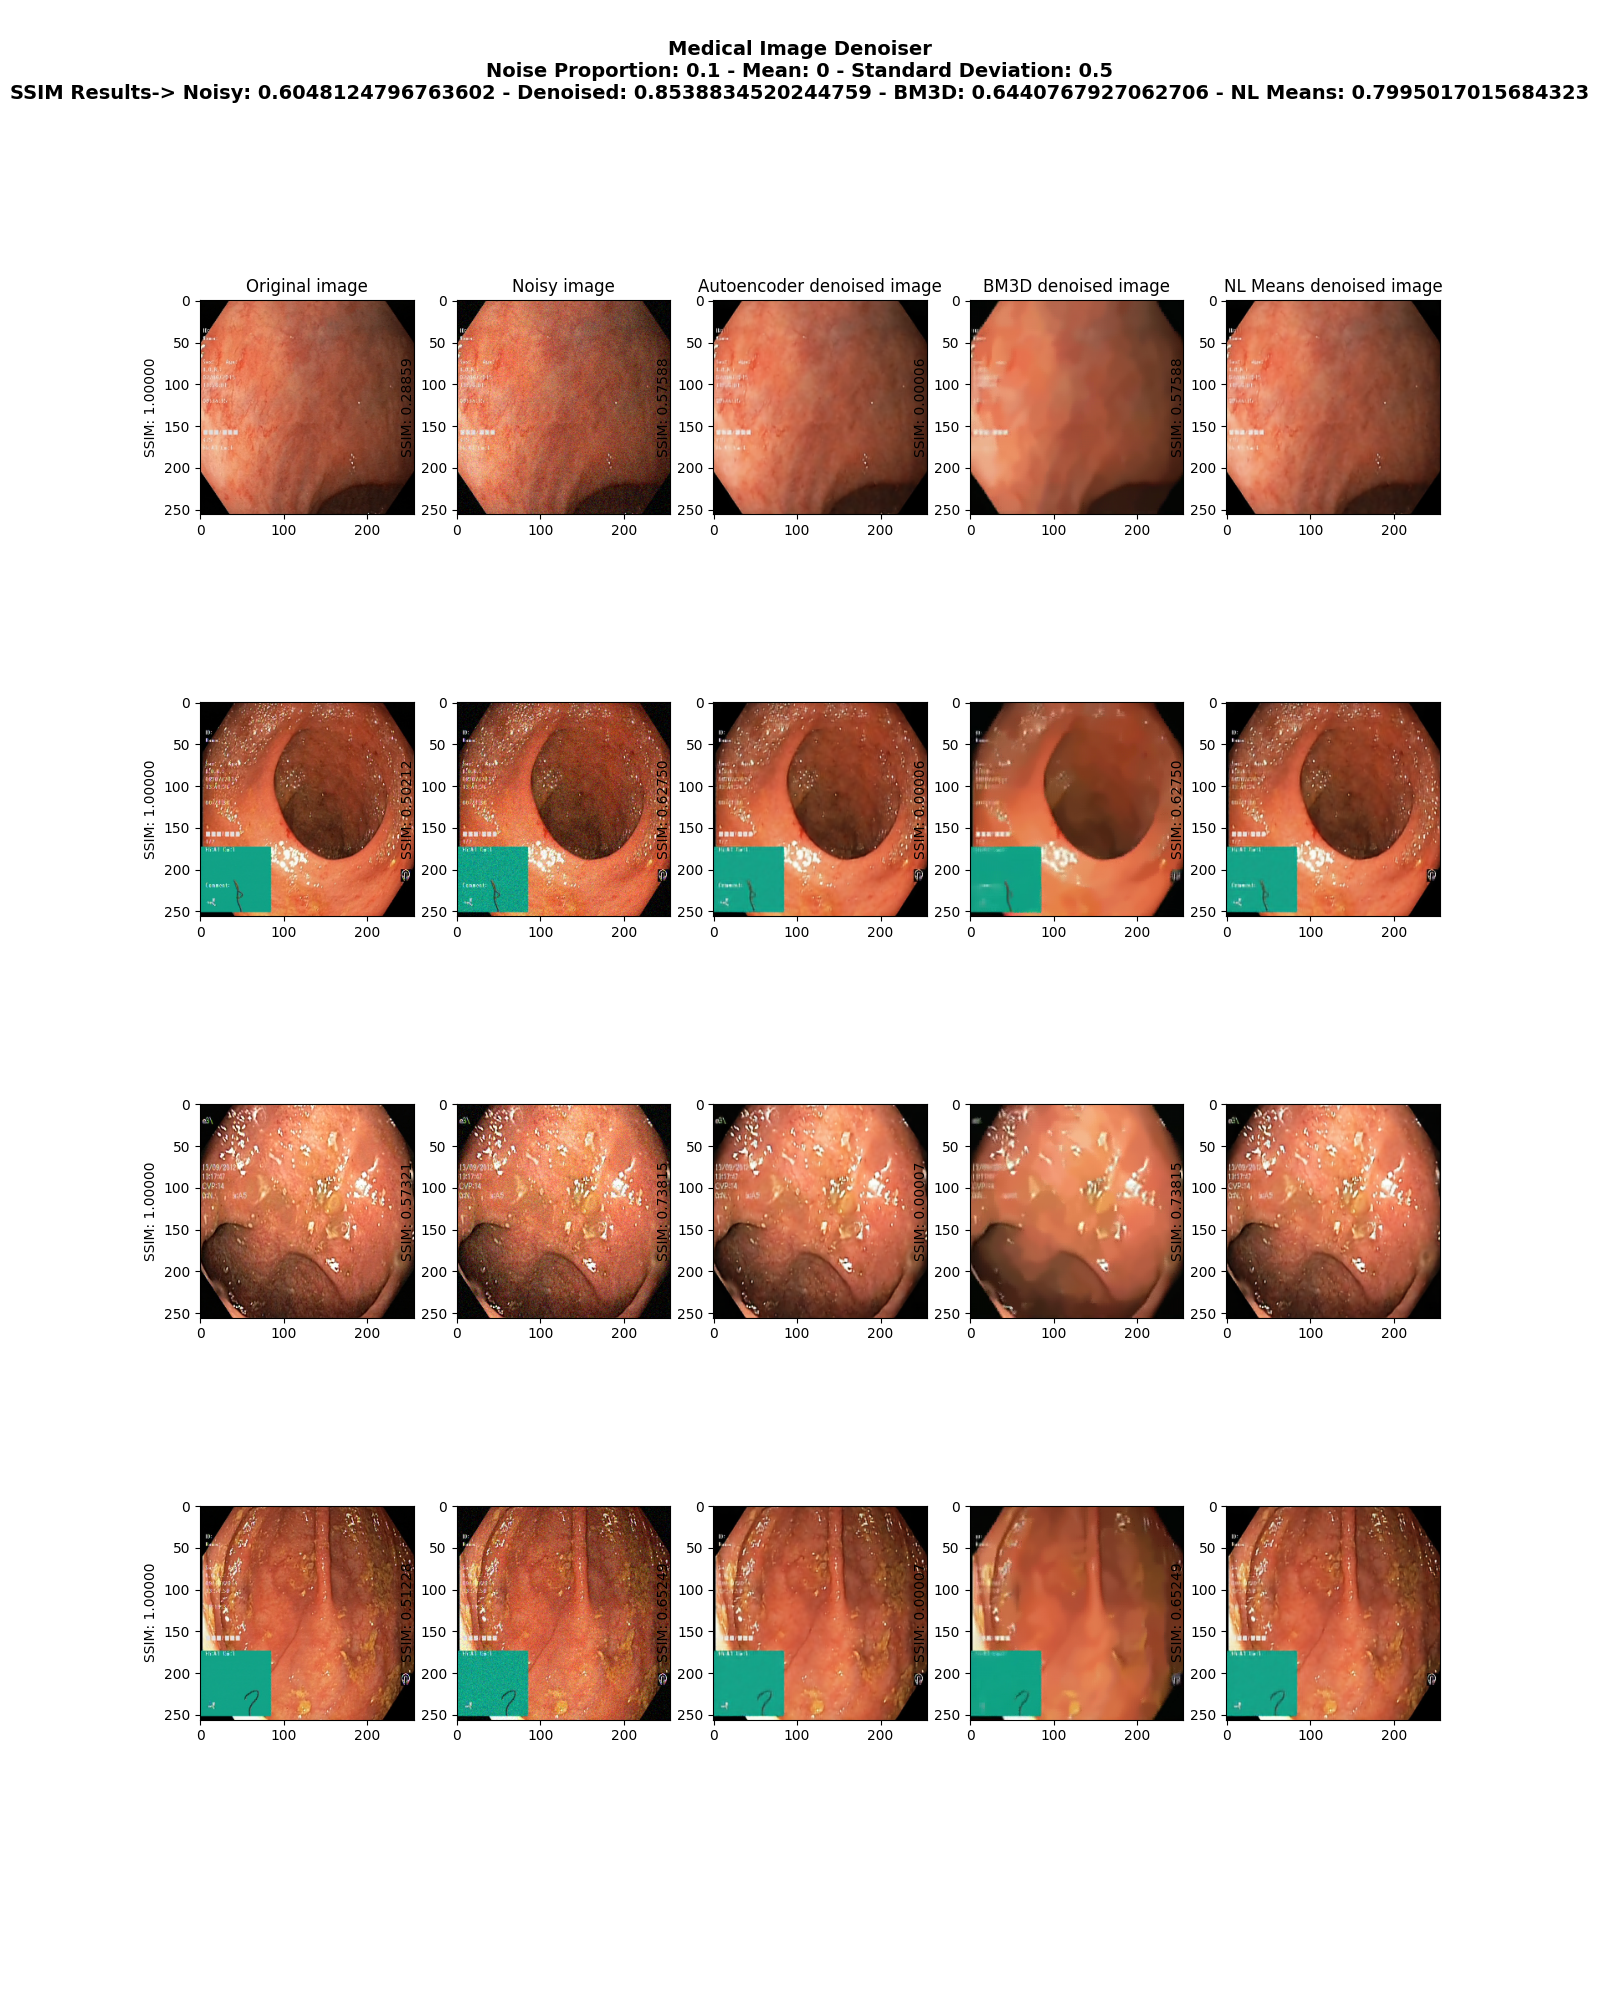
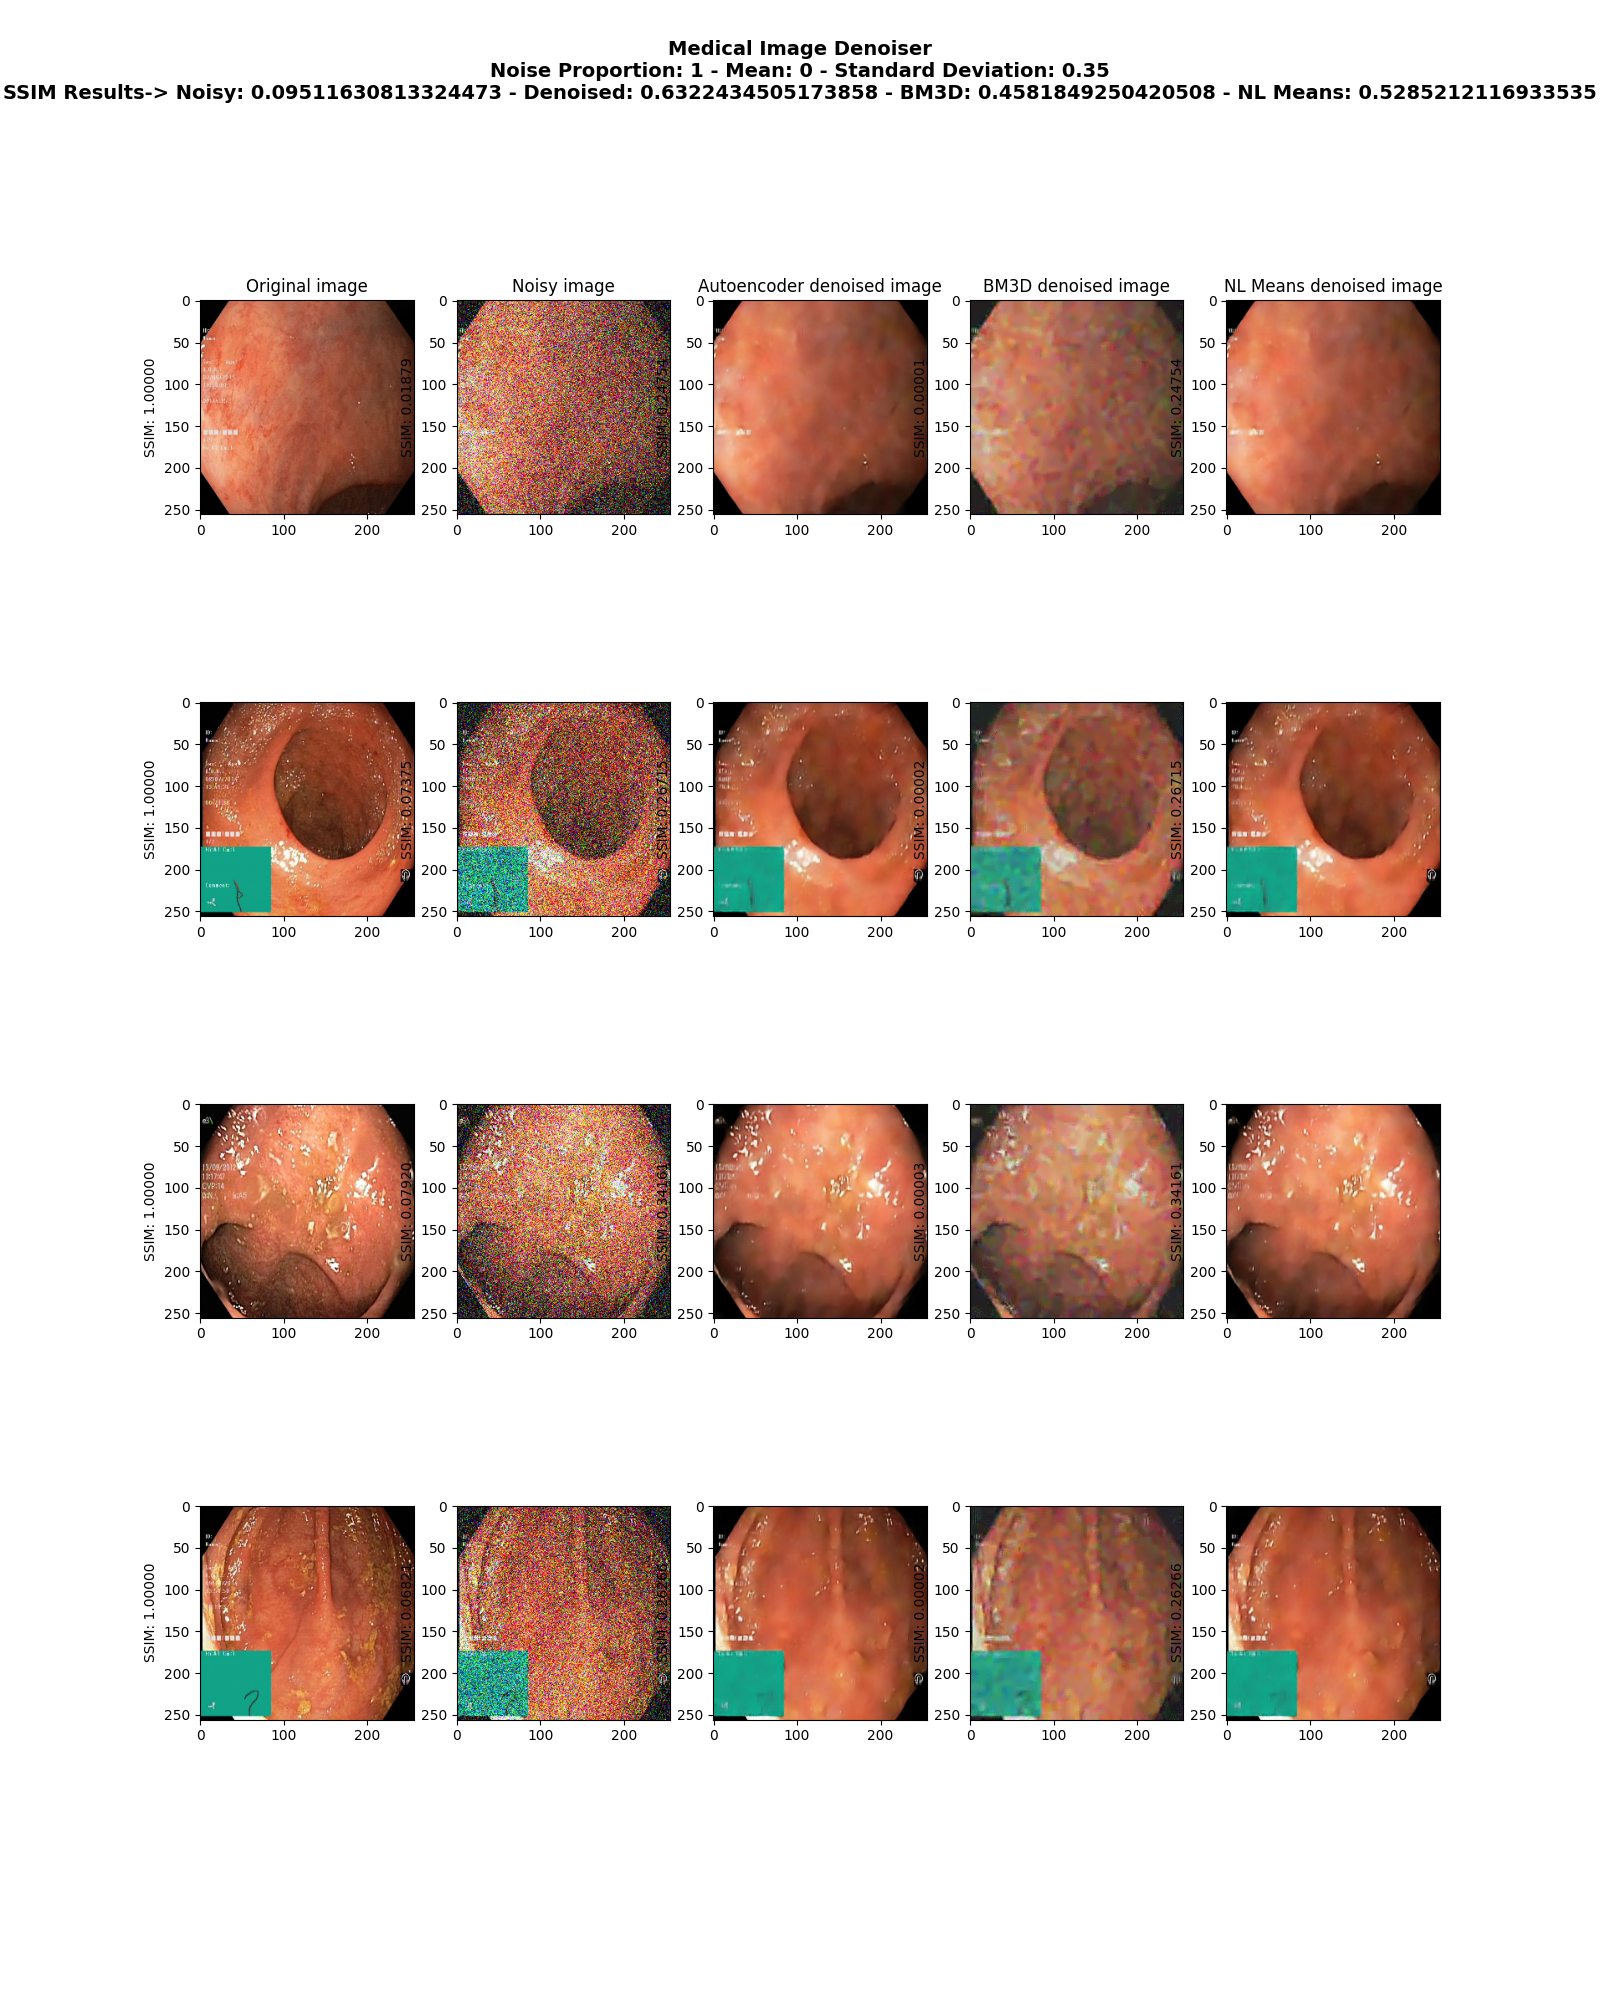
results

diff --git a/2021/src/Pre-processing/Isotropic/Noise/src/modules/CheckSize.py b/2021/src/Pre-processing/Isotropic/Noise/src/modules/CheckSize.py
@@ -54,7 +54,7 @@ def plotHistogram(heights, widths):
     """
 
     # Create Fig and gridspec
-    fig = plt.figure(figsize=(16, 10), dpi=80)
+    fig = plt.figure(figsize=(16, 10), dpi=300)
     grid = plt.GridSpec(4, 4, hspace=0.5, wspace=0.2)
 
     # Define the axes
@@ -63,27 +63,33 @@ def plotHistogram(heights, widths):
     ax_bottom = fig.add_subplot(grid[-1, 0:-1], xticklabels=[], yticklabels=[])
 
     # Scatterplot on main ax
-    ax_main.scatter('width', 'height', data=(widths, heights), s=0.5,
+    ax_main.scatter(widths, heights, s=40, c='r', marker=".", label="Width x Height",
                     alpha=0.5, edgecolors='gray', linewidths=.5)
 
     # histogram on the right
     ax_bottom.hist(widths, 40, histtype='stepfilled',
-                   orientation='vertical', color='deeppink')
+                   orientation='vertical', color='blue')
     ax_bottom.invert_yaxis()
 
     # histogram in the bottom
     ax_right.hist(heights, 40, histtype='stepfilled',
-                  orientation='horizontal', color='deeppink')
+                  orientation='horizontal', color='green')
 
     # Decorations
     ax_main.set(title='Scatterplot with Histograms \n width vs height',
                 xlabel='width', ylabel='height')
-    ax_main.title.set_fontsize(20)
+    ax_main.title.set_fontsize(10)
     for item in ([ax_main.xaxis.label, ax_main.yaxis.label] + ax_main.get_xticklabels() + ax_main.get_yticklabels()):
-        item.set_fontsize(14)
+        item.set_fontsize(10)
 
-    xlabels = ax_main.get_xticks()
-    ax_main.set_xticklabels(xlabels)
+    # xstick = np.arange(0, 2000, 100)
+    # ystick = np.arange(0, 1200, 100)
+    # ax_main.set_xticks(xstick)
+    # ax_main.set_yticks(ystick)
+    # xlabels = ax_main.get_xticks().tolist()
+    # ylabels = ax_main.get_yticks().tolist()
+    # ax_main.set_xticklabels(xlabels, rotation=45)
+    # ax_main.set_yticklabels(ylabels)
     # plt.show()
 
     # # Draw Plot
@@ -93,8 +99,8 @@ def plotHistogram(heights, widths):
     # plt.ylim(0, 0.35)
     # plt.xticks(np.arange(0, 1.5, 0.05), rotation=45)
     # Decoration
-    plt.title('size analysis', fontsize=22)
-    plt.legend()
+    plt.title('size analysis', fontsize=12)
+    # plt.legend()
     filesave = "/home/nguyentansy/PhD-work/PhD-project/2021/src/Pre-processing/Isotropic/Noise/src/denoising_rgb/results/sizehist.png"
     plt.savefig(filesave)
 

diff --git a/2021/src/Pre-processing/Isotropic/Noise/src/denoising_rgb/main.py b/2021/src/Pre-processing/Isotropic/Noise/src/denoising_rgb/main.py
@@ -70,7 +70,7 @@ if __name__ == "__main__":
     train_split = 0.9
     verbosity = 1
     noise_prop = 0.1
-    noise_std = 5
+    noise_std = 0.35
     noise_mean = 0
     number_of_samples = 4
     shuffle_test_set = False
